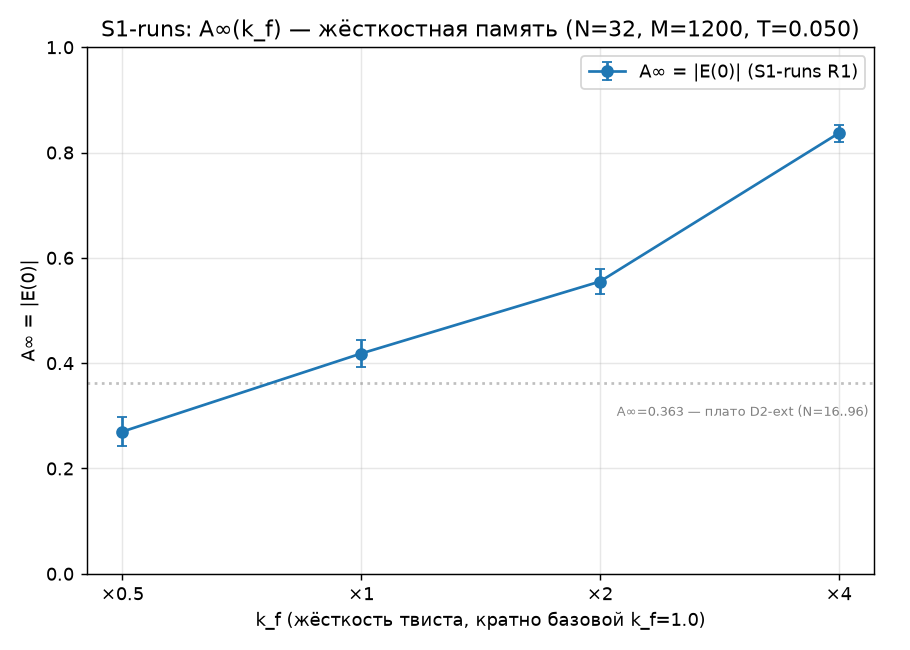
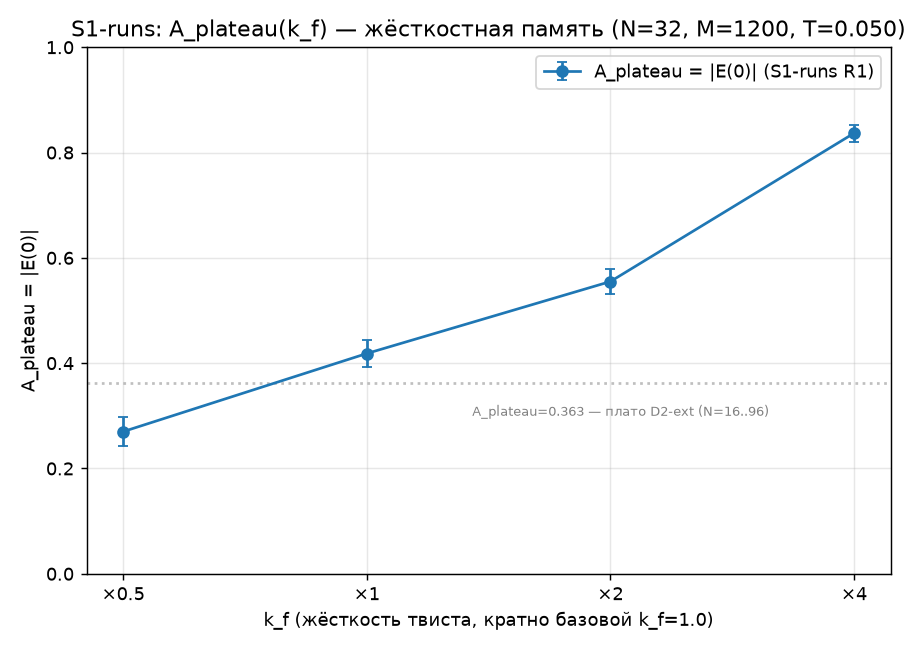
figs: regenerate phase-D figures with A_plateau labels
Подписи A∞ → A_plateau в осях/легендах/заголовках двух скриптов (analysis_ext.py,
plot_s1runs_kf.py) — согласовано с §6 после переименования в тексте. Подпись опорной
линии на Fig.2 сдвинута (после удлинения упиралась в правый край).

Перегенерировано 9 png ИЗ ЗАМОРОЖЕННОГО СЫРЬЯ: analysis.py, analysis_ds2.py,
analysis_ext.py, analysis_ds3.py, plot_s1runs_kf.py. Динамика не запускалась.

НЕ перегенерированы 14 png (v1_*, v2_*, v3_*): их строят run_v1/v2/v3.py, которые
ЗАПУСКАЮТ ДИНАМИКУ — это выходит за рамки «только отрисовка». В статье они не
используются, A∞ в их подписях нет.

diff --git a/sim/phase_D/plot_s1runs_kf.py b/sim/phase_D/plot_s1runs_kf.py
@@ -1,4 +1,4 @@
-"""Отрисовка Fig. 2 статьи: A∞(k_f) — жёсткостная память (S1-runs R1).
+"""Отрисовка Fig. 2 статьи: A_plateau(k_f) — жёсткостная память (S1-runs R1).
 
 Только рендер из ЗАМОРОЖЕННОГО сырья results/S1runs_raw.json (коммит 704e29c,
 анализ a9cef7b). Никакой динамики не запускается: JAX не импортируется.
@@ -31,16 +31,16 @@ def main():
 
     plt.figure(figsize=(7, 5))
     plt.errorbar(mults, A, yerr=sigma, fmt="o-", capsize=3, color="C0",
-                 label="A∞ = |E(0)| (S1-runs R1)")
+                 label="A_plateau = |E(0)| (S1-runs R1)")
     # значение канона при k_f×1 (D2-ext плато) — для привязки к §5.1
     plt.axhline(0.363, ls=":", alpha=0.5, color="gray")
-    plt.text(2.1, 0.30, "A∞=0.363 — плато D2-ext (N=16..96)", fontsize=7, color="gray")
+    plt.text(1.35, 0.30, "A_plateau=0.363 — плато D2-ext (N=16..96)", fontsize=7, color="gray")
 
     plt.xscale("log", base=2)
     plt.xticks(mults, [f"×{m:g}" for m in mults])
     plt.xlabel("k_f (жёсткость твиста, кратно базовой k_f=%.1f)" % meta["base"]["k_f"])
-    plt.ylabel("A∞ = |E(0)|")
-    plt.title("S1-runs: A∞(k_f) — жёсткостная память (N=%d, M=%d, T=%.3f)"
+    plt.ylabel("A_plateau = |E(0)|")
+    plt.title("S1-runs: A_plateau(k_f) — жёсткостная память (N=%d, M=%d, T=%.3f)"
               % (meta["N"], meta["M"], meta["T_mid"]))
     plt.ylim(0, 1)
     plt.legend(); plt.grid(alpha=0.3); plt.tight_layout()

diff --git a/sim/phase_D/analysis_ext.py b/sim/phase_D/analysis_ext.py
@@ -132,10 +132,10 @@ def main():
     plt.figure(figsize=(7, 5))
     plt.errorbar(NS, A, yerr=sA, fmt="o", capsize=3, label="A_N=|E(0)| (данные)", color="C0", zorder=5)
     Nf = np.linspace(NS.min(), NS.max(), 100)
-    plt.axhline(A0, ls=":", color="C1", label=f"M0 const A∞={A0:.3f}")
+    plt.axhline(A0, ls=":", color="C1", label=f"M0 const A_plateau={A0:.3f}")
     plt.plot(Nf, m1(Nf, *p1), "--", color="C2", label=f"M1 A·N^−γ (γ={p1[1]:.2f})")
     if p2 is not None:
-        plt.plot(Nf, m2(Nf, *p2), "-", color="C3", label=f"M2 A∞+cN^−γ (A∞={p2[0]:.3f})")
+        plt.plot(Nf, m2(Nf, *p2), "-", color="C3", label=f"M2 A_plateau+cN^−γ (A_plateau={p2[0]:.3f})")
     plt.xlabel("N"); plt.ylabel("A_N"); plt.ylim(0, max(A)*1.3)
     plt.title(f"D2-ext скейлинг: лучшая {best} (M=1200)")
     plt.legend(fontsize=8); plt.grid(alpha=0.3); plt.tight_layout()